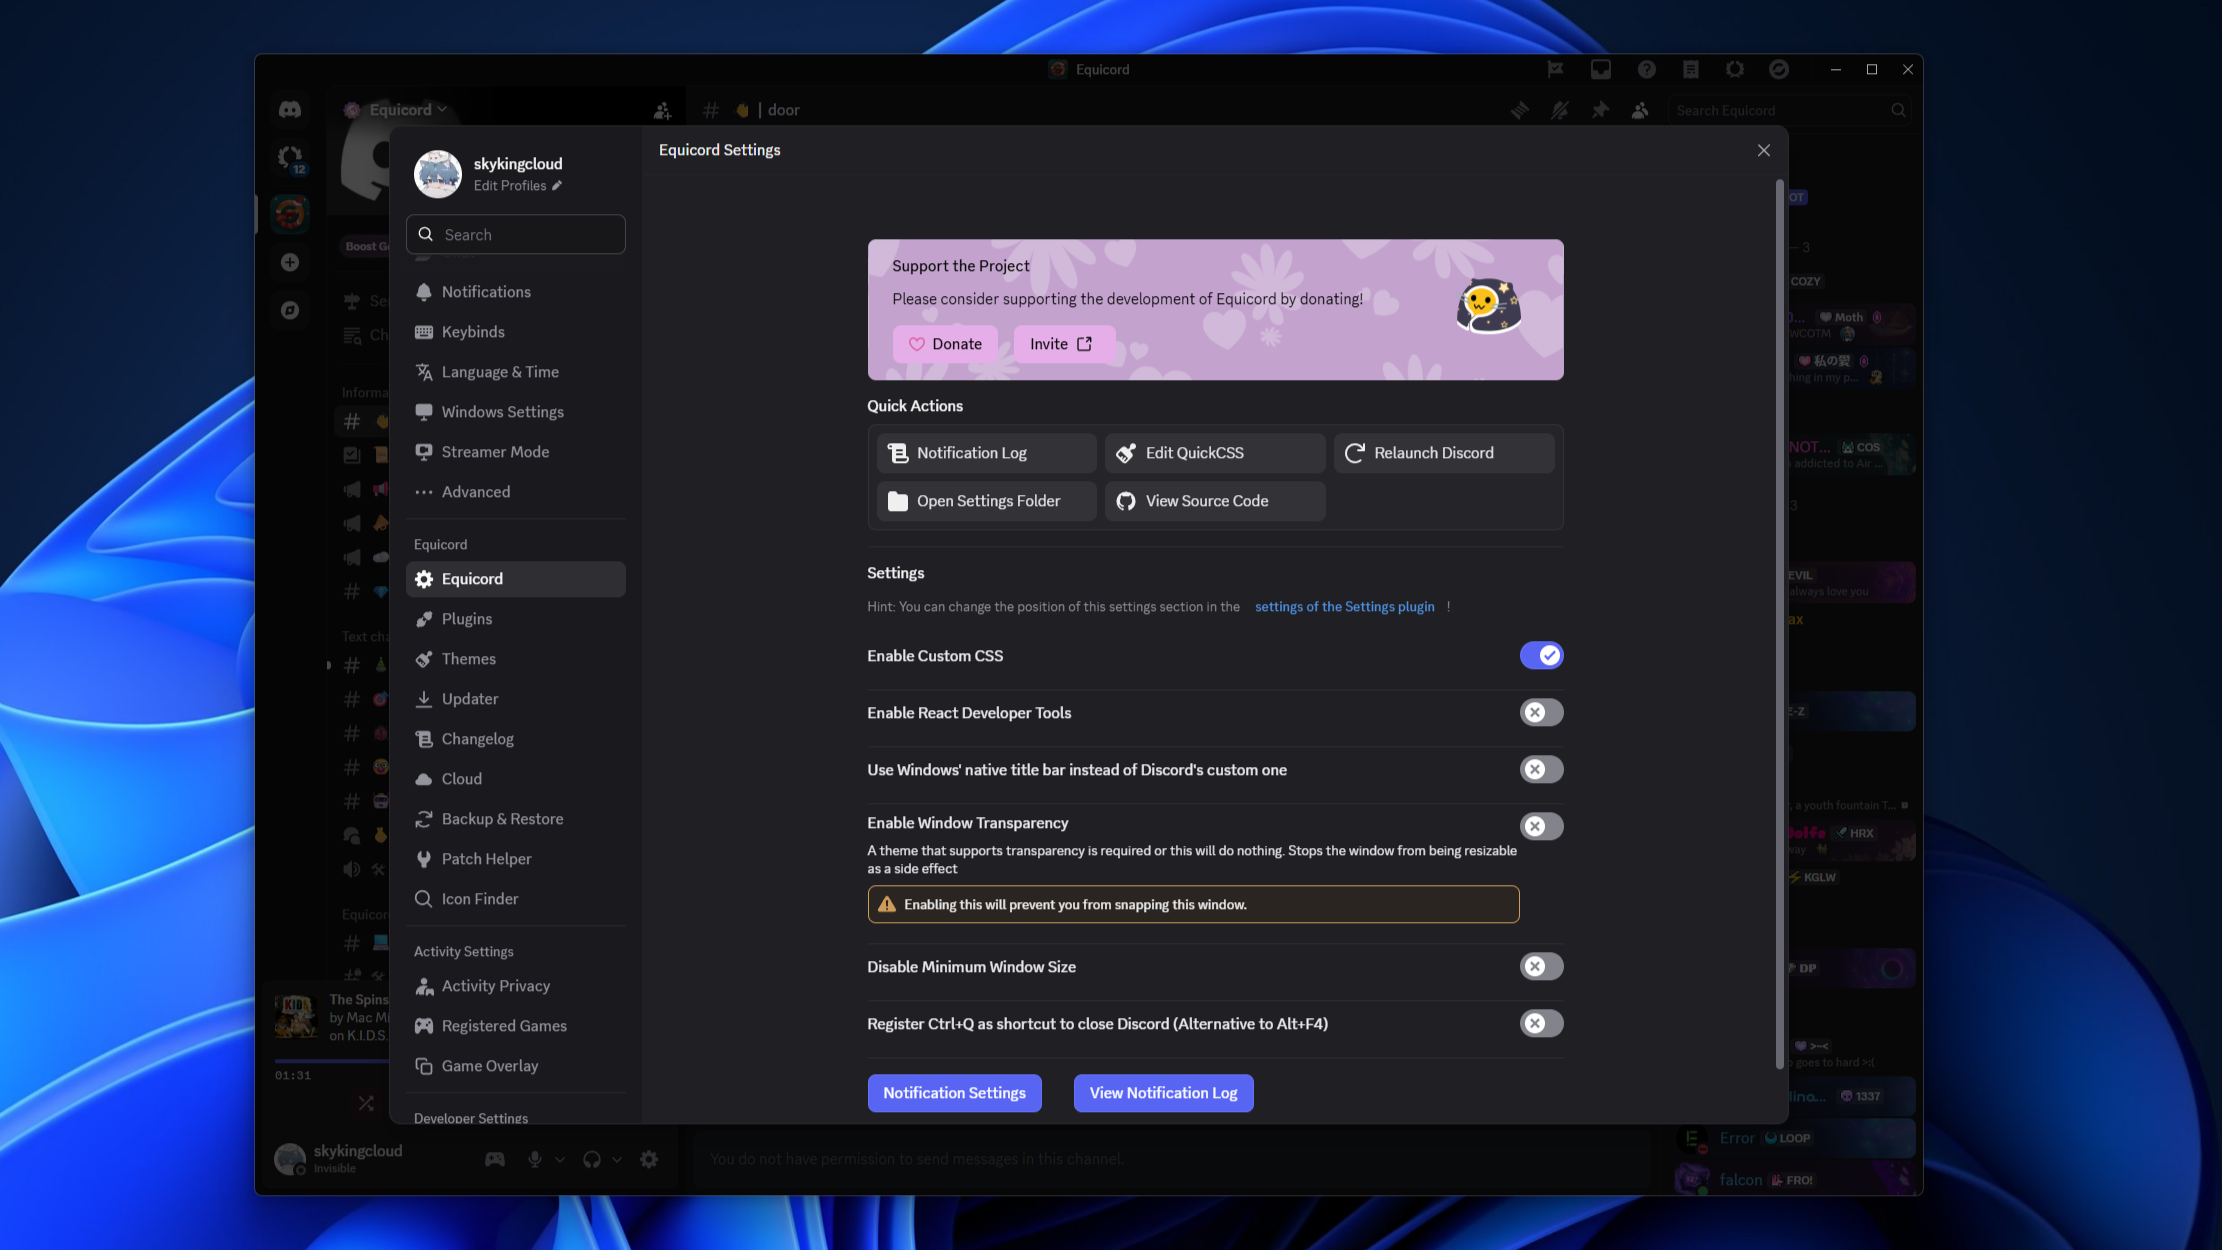
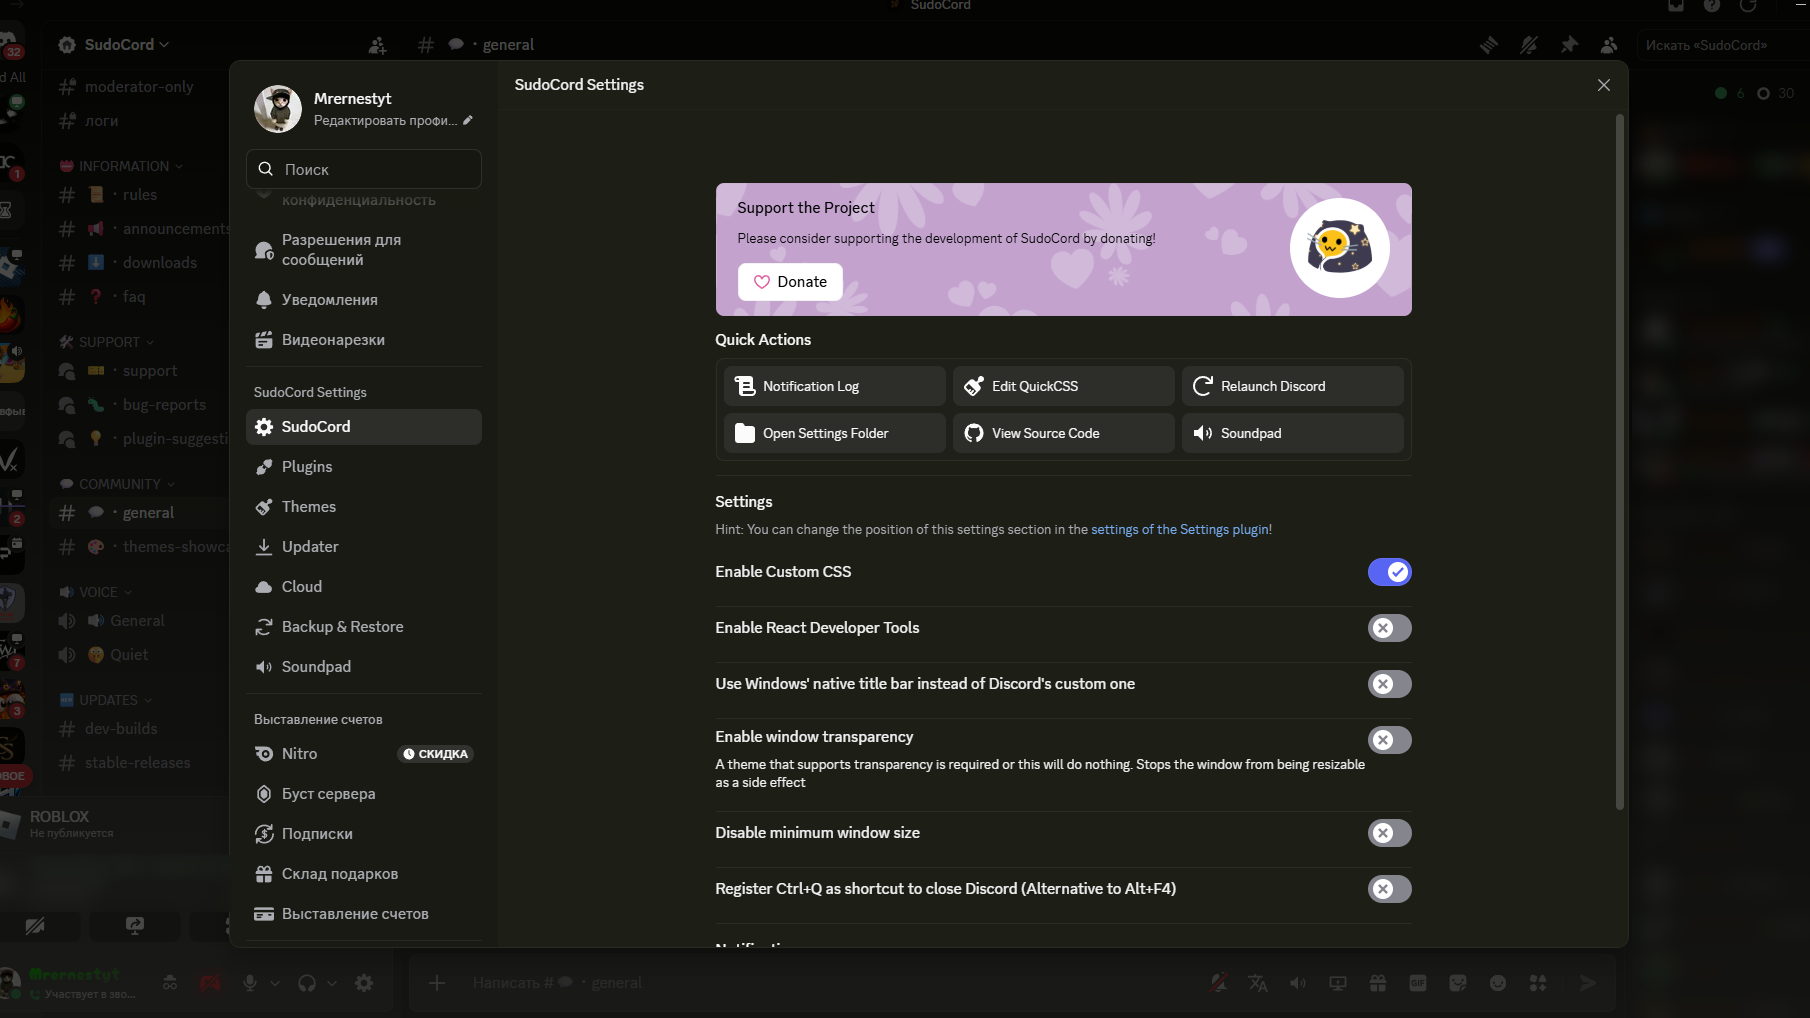
Сайт: скриншот настроек SudoCord на главной вместо Equicord
Ники других участников (список участников, голосовая панель) размыты.

diff --git a/sudocord-site/src/views/Home/components/Hero.tsx b/sudocord-site/src/views/Home/components/Hero.tsx
@@ -142,8 +142,8 @@ export default function HomeHero() {
             <Image
                 src="/assets/home/settings.webp"
                 alt="SudoCord Settings Interface"
-                width={2222}
-                height={1250}
+                width={1810}
+                height={1018}
                 priority
                 className={`mt-12 rounded-t-2xl mask-b-from-75% select-none transition-all duration-700 ease-out delay-800 ${
                     mounted
